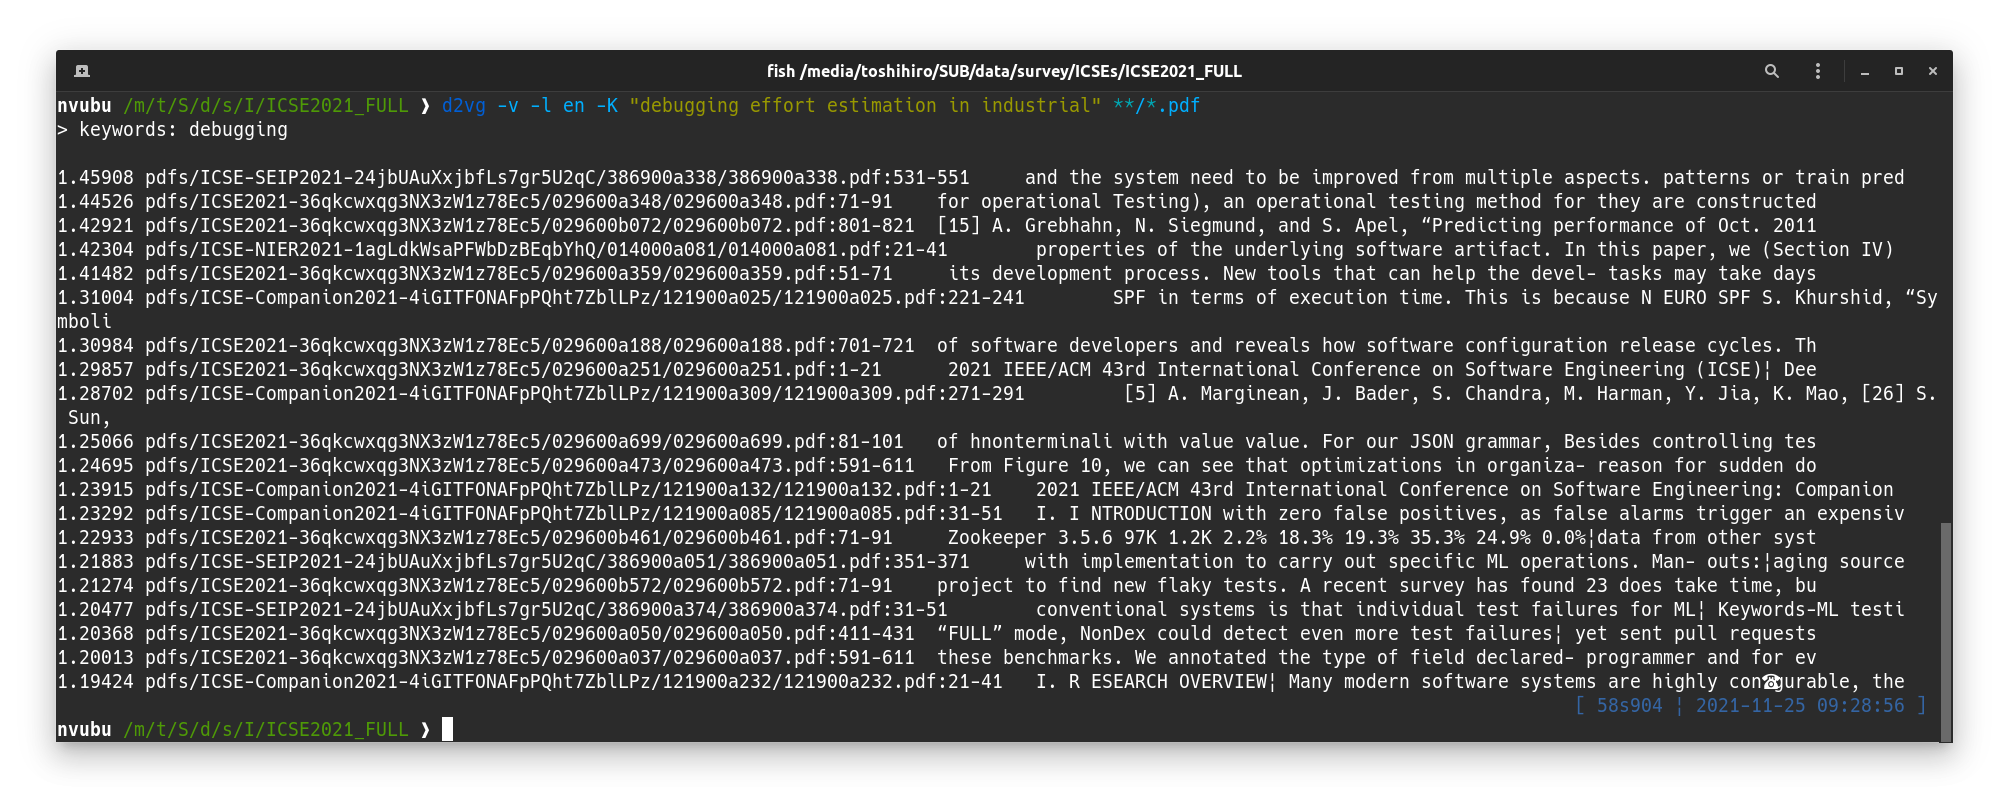
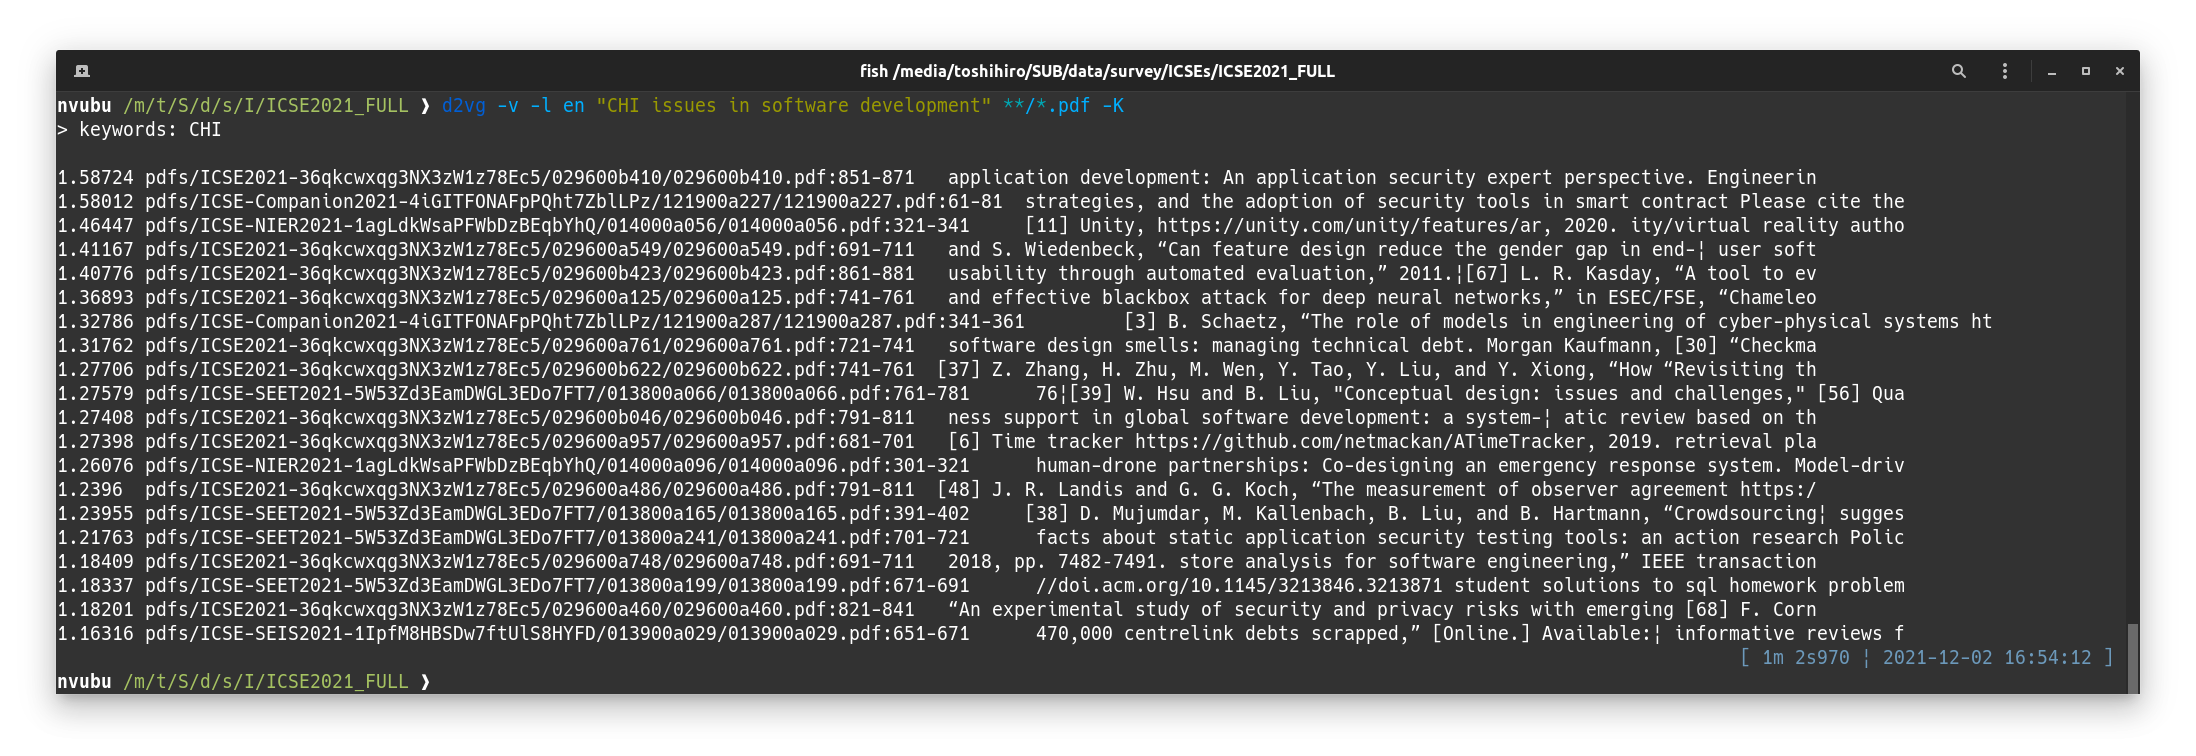
docs: replace the running examples with the latest version

Changed region(s): [[0.0, 0.213, 0.9876, 0.9431], [0.0, 0.0608, 0.9876, 0.1825]]

diff --git a/README.md b/README.md
@@ -42,7 +42,7 @@ Example:
 With the option `-K`, if there are unknown words (of the Doc2Vec model) in the query phrase, those words will be specified as keywords.
 If keywords are specified, only the part that contains all the keywords will be displayed in the search results.  Also, the specified keywords will be displayed in the line "`> keywords:`".
 
-Example: "debugging" was specified as a keyword  
+Example: "CHI" was specified as a keyword  
 ![](images/example3.png)
 
 ### Indexing
@@ -57,7 +57,7 @@ d2vg creates and refers to an index DB when the following conditions are satisfi
 So, you can start indexing by changing the directory of the document fies and making a `.d2vg` directory.
 
 ```sh
-cd <the/document/directory>
+cd the/document/directory
 mkdir .d2vg
 ```
 
@@ -67,12 +67,14 @@ That is, when a new document is added and becomes the target of the search, the 
 On the other hand, there is no function to automatically remove the index data of deleted documents from the database, so you should explicitly remove the `.d2vg` directory if necessary.
 
 ```sh
-cd <the/document/directory>
+cd the/document/directory
 rm -rf .d2vg
 ```
 
+For DOS prompt or Powershell, use `rd /s /q .d2vg` or `rm -r -fo .d2vg`, respectively.
+
 Example of execution with indexes enabled:  
-(In this example, it took 57 seconds without indexing, but it was reduced to 4 seconds.)  
+(In this example, it took 62 seconds without indexing, but it was reduced to 4 seconds.)  
 ![](images/example2.png)
 
 ## Troubleshootings
@@ -107,12 +109,12 @@ For example, in the case of English Doc2Vec model, the content of the file `en.r
 ## Todo
 
 - [x] Optimization by indexing document files
-- [x] Prepare Doc2Vec models compatible to the latest gensim (v4) 
+- [x] Prepare Doc2Vec models compatible with the latest gensim (v4) 
 - [x] Check installation on Windows
 - [x] Combining keyword search
 - [x] Tuning models
 - [x] Easy installation
-- [ ] Support for more languages (experimental support: ko, zh)
+- [ ] Support and tune more languages (experimental support: ko, zh)
 
 ## Acknowledgements
 

diff --git a/README.ja_JP.md b/README.ja_JP.md
@@ -42,7 +42,7 @@ d2vg -l en -v <query_phrase> <files>...
 オプション`-K`をつけると、クエリのフレーズ中に（Doc2Vecモデルの）未知語があった場合は、それらの語をキーワードに指定します。
 キーワードが指定された場合は、キーワードがすべて含まれる部分のみが検索結果に表示されます。さらに、指定されたキーワードが「`> keywords:`」という行に表示されます。
 
-実行例: 「debugging」がキーワードに指定された例  
+実行例: 「CHI」がキーワードに指定された例  
 ![](images/example3.png)
 
 ### インデックス化
@@ -71,8 +71,10 @@ cd ドキュメントのディレクトリ
 rm -rf .d2vg
 ```
 
+DOSプロンプトやPowershellの場合は、それぞれ、`rd /s /q .d2vg`あるいは`rm -r -fo .d2vg`としてください。
+
 インデックス化を有効にしたときの実行例:  
-(この例では、インデックス化をしていないときは57秒かかっていたものが、4秒に短縮されました。)  
+(この例では、インデックス化をしていないときは62秒かかっていたものが、4秒に短縮されました。)  
 ![](images/example2.png)
 
 ## トラブルシューティング
@@ -111,7 +113,7 @@ Doc2Vecモデルは、Gensim v4で作成されたものとしてください。
 - [x] キーワード検索の併用
 - [x] モデルのチューニング
 - [x] インストールを容易に
-- [ ] より多くの言語サポート(実験的サポート: ko, zh)
+- [ ] より多くの言語サポートおよびチューニング(実験的サポート: ko, zh)
 
 ## 謝辞
 
